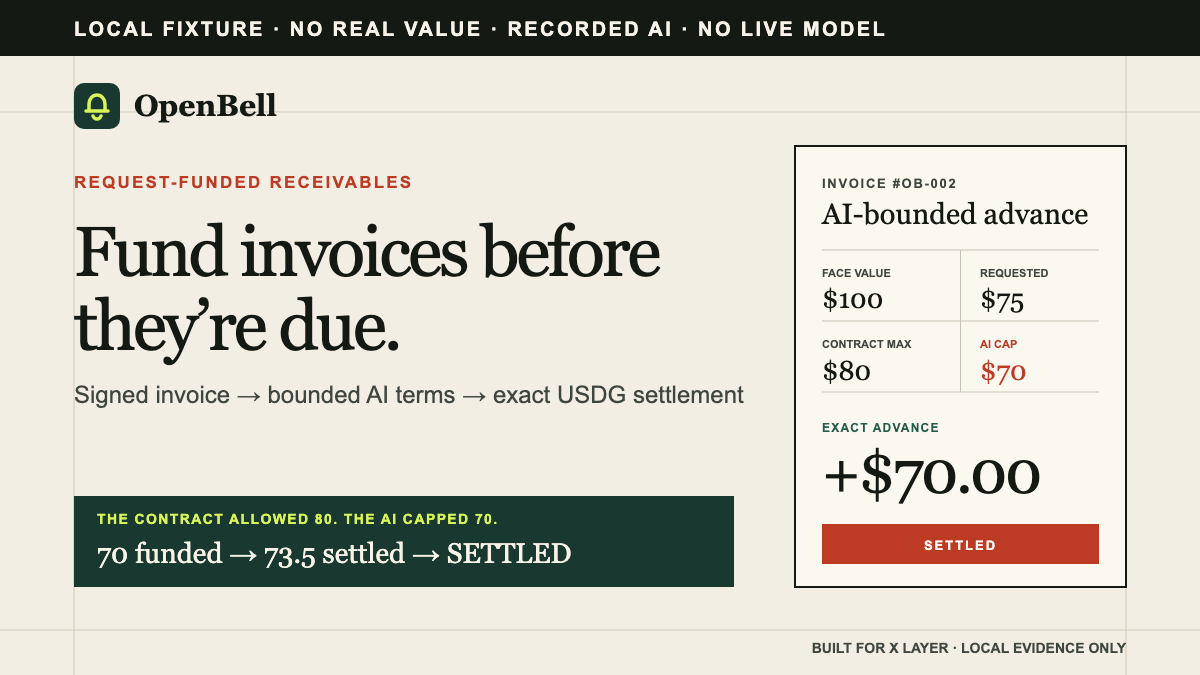
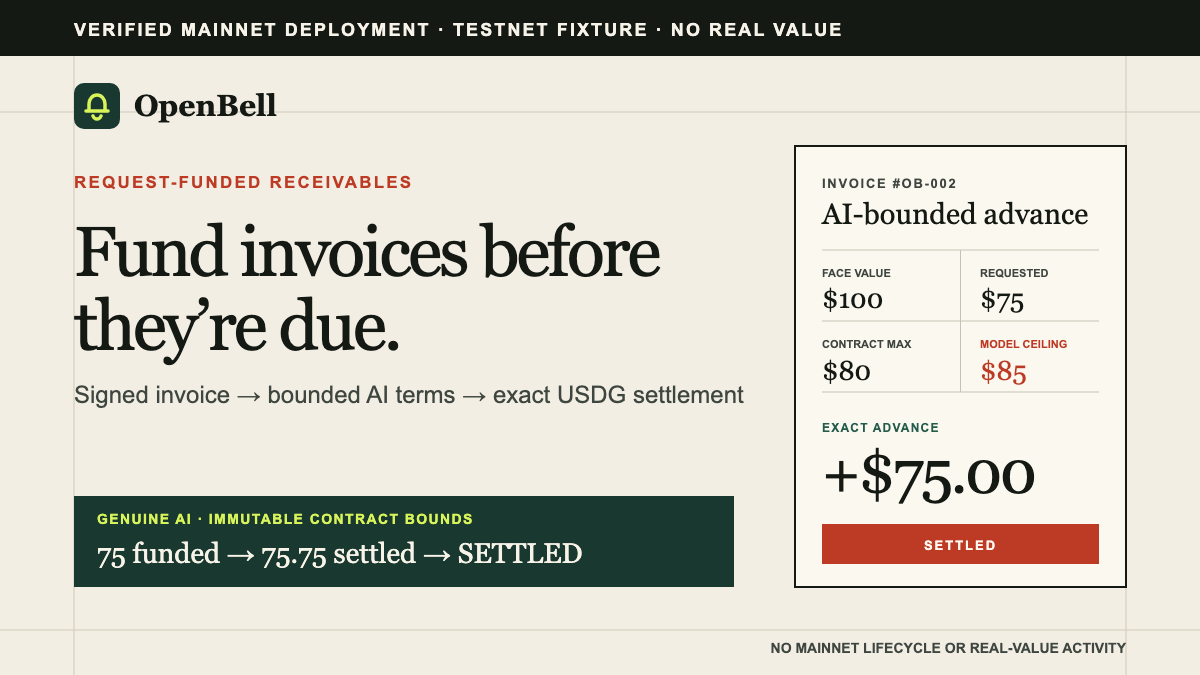
Add verified X Layer mainnet deployment proof

diff --git a/web/index.html b/web/index.html
@@ -6,7 +6,7 @@
     <title>OpenBell — Replay AI-bounded invoice funding</title>
     <meta
       name="description"
-      content="OpenBell combines a verified no-value X Layer testnet deployment, genuine bounded AI decisions, and a separate recorded local lifecycle replay."
+      content="OpenBell is deployed and verified on X Layer mainnet, with a separate no-value testnet lifecycle and genuine bounded AI evidence."
     />
     <meta name="robots" content="noindex, nofollow" />
     <meta name="theme-color" content="#f2eee4" />
@@ -14,7 +14,7 @@
     <meta property="og:title" content="OpenBell — Replay AI-bounded invoice funding" />
     <meta
       property="og:description"
-      content="Verified no-value X Layer testnet contracts, genuine bounded AI decisions, and a settled 75 → 75.75 fixture lifecycle."
+      content="Verified X Layer mainnet deployment, genuine bounded AI decisions, and a no-value testnet 75 → 75.75 lifecycle."
     />
     <meta property="og:image" content="public/openbell-og.png" />
     <meta property="og:image:width" content="1200" />
@@ -23,7 +23,7 @@
     <meta name="twitter:title" content="OpenBell — Replay AI-bounded invoice funding" />
     <meta
       name="twitter:description"
-      content="Verified no-value X Layer testnet contracts, genuine bounded AI decisions, and a settled 75 → 75.75 fixture lifecycle."
+      content="Verified X Layer mainnet deployment, genuine bounded AI decisions, and a no-value testnet 75 → 75.75 lifecycle."
     />
     <meta name="twitter:image" content="public/openbell-og.png" />
     <link rel="icon" href="public/favicon.svg" type="image/svg+xml" />
@@ -34,7 +34,7 @@
     <a class="skip-link" href="#main">Skip to the product</a>
 
     <div class="truth-ribbon" role="note" aria-label="Fixture disclosure">
-      <span>VERIFIED TESTNET</span>
+      <span>VERIFIED MAINNET DEPLOYMENT</span>
       <i aria-hidden="true"></i>
       <span>NO REAL VALUE</span>
       <i aria-hidden="true"></i>
@@ -79,8 +79,8 @@
             <a class="secondary-action" href="#proof">Inspect evidence</a>
           </div>
           <p class="hero-boundary">
-            The no-value contracts and genuine-model lifecycle are verified on X Layer testnet. This interactive
-            70 → 73.50 replay remains the older recorded local fixture, clearly separated from the network proof.
+            OpenBell is deployed and verified on X Layer mainnet, with no mainnet lifecycle or real-value activity.
+            This interactive 70 → 73.50 replay remains the older recorded local fixture.
           </p>
         </div>
 
@@ -162,6 +162,47 @@
         <span>NO PROTOCOL TOKEN</span>
         <span>EXACT REQUEST FUNDING</span>
         <span>DIRECT PAYER SETTLEMENT</span>
+      </section>
+
+      <section class="proof-section mainnet-checkpoint" aria-labelledby="mainnet-title">
+        <header class="section-heading proof-heading">
+          <div>
+            <p class="eyebrow">VERIFIED MAINNET DEPLOYMENT</p>
+            <h2 id="mainnet-title">One exact CREATE. Runtime and configuration verified.</h2>
+          </div>
+          <span class="fixture-chip">CHAIN 196 · DEPLOYMENT ONLY</span>
+        </header>
+        <div class="proof-grid">
+          <article class="proof-card proof-card-main">
+            <p class="proof-label">OPENBELL RECEIVABLES</p>
+            <code>0xc4Ef249b80a6a034198C226278c51b0a903840dd</code>
+            <p>Deployed and verified on X Layer mainnet. No mainnet lifecycle or real-value activity.</p>
+          </article>
+          <article class="proof-card">
+            <p class="proof-label">DEPLOYMENT TRANSACTION</p>
+            <a href="https://www.okx.com/web3/explorer/xlayer/tx/0x328c80d5c4e5a7a13c3143f1f3c5667f83823c3ebdfbd3ca1d9c07b7f3af413e"><code>0x328c…f413e</code></a>
+            <p>Block 67,764,503 · zero-value CREATE.</p>
+          </article>
+          <article class="proof-card">
+            <p class="proof-label">RUNTIME HASH</p>
+            <code>0x3aa05fd1a2f966e99324c8c24dc3ee67e2f4c11a4f3c8de0da25fc1f7e8a9798</code>
+            <p>13,027 bytes; source-bound artifact compatibility verified through two providers.</p>
+          </article>
+          <article class="proof-card proof-card-boundary">
+            <p class="proof-label">MAINNET BOUNDARY</p>
+            <ul>
+              <li>No invoice registered or rejected</li>
+              <li>No USDG funded or settled</li>
+              <li>No role rotation</li>
+              <li>Explorer source publication pending</li>
+            </ul>
+          </article>
+        </div>
+        <div class="mainnet-links">
+          <a class="manifest-link" href="data/openbell-xlayer-mainnet-deployment.json" download>Download public mainnet evidence <span aria-hidden="true">↓</span></a>
+          <a class="manifest-link" href="https://www.okx.com/web3/explorer/xlayer/address/0xc4Ef249b80a6a034198C226278c51b0a903840dd">Inspect contract <span aria-hidden="true">↗</span></a>
+        </div>
+        <p class="manifest-hash"><span>Verification manifest</span><code>0xac31d5ee9c4474c6233ad141a436115d439bda8599dc9680852b6ffe4371f020</code></p>
       </section>
 
       <section class="proof-section" aria-labelledby="network-title">
@@ -349,7 +390,7 @@
         <img src="public/openbell-mark.svg" width="34" height="34" alt="" />
         <span>OpenBell</span>
       </div>
-      <p>Built for X Layer · Verified no-value testnet deployment · Genuine lifecycle SETTLED</p>
+      <p>Deployed and verified on X Layer mainnet · No mainnet lifecycle or real-value activity</p>
     </footer>
   </body>
 </html>

diff --git a/web/styles.css b/web/styles.css
@@ -92,6 +92,17 @@ button {
   background: var(--acid);
 }
 
+.mainnet-checkpoint {
+  padding-top: 86px;
+}
+
+.mainnet-links {
+  display: flex;
+  flex-wrap: wrap;
+  gap: 12px;
+  margin-top: 22px;
+}
+
 .site-header,
 main > section,
 footer,
@@ -945,7 +956,8 @@ footer p {
   main > section,
   footer,
   .trust-line {
-    width: min(100% - 30px, 1180px);
+    width: calc(100% - 30px);
+    max-width: 1180px;
   }
 
   .site-header nav a {
@@ -1046,13 +1058,33 @@ footer p {
   }
 
   .truth-ribbon {
-    display: grid;
-    grid-template-columns: 1fr 1fr;
-    gap: 5px 18px;
-    min-height: 48px;
+    display: block;
+    min-height: 0;
     padding: 8px 16px;
-    font-size: 10px;
+    font-size: 9px;
     letter-spacing: 0.1em;
+    white-space: nowrap;
+  }
+
+  .truth-ribbon span {
+    display: inline;
+  }
+
+  .truth-ribbon span::after {
+    content: " · ";
+    color: var(--acid);
+  }
+
+  .truth-ribbon span:last-child::after {
+    content: "";
+  }
+
+  .truth-ribbon span:nth-of-type(n + 3) {
+    display: none;
+  }
+
+  .truth-ribbon span:nth-of-type(2)::after {
+    content: "";
   }
 
   .truth-ribbon i {
@@ -1068,8 +1100,7 @@ footer p {
   }
 
   .network-pill {
-    padding: 6px 8px;
-    font-size: 9px;
+    display: none;
   }
 
   .hero {
@@ -1100,8 +1131,9 @@ footer p {
   }
 
   .hero-equation {
+    display: grid;
+    grid-template-columns: 1fr;
     width: 100%;
-    justify-content: space-between;
     gap: 7px;
     margin-top: 22px;
     padding-inline: 8px;
@@ -1115,8 +1147,12 @@ footer p {
     text-align: center;
   }
 
+  .hero-equation {
+    overflow: hidden;
+  }
+
   .hero-equation > i {
-    flex: 0 0 auto;
+    transform: rotate(90deg);
   }
 
   .hero-equation b {

diff --git a/README.md b/README.md
@@ -15,9 +15,21 @@ signed invoice -> bounded AI decision -> exact USDG advance -> payer settlement
 
 ## Current status
 
-OpenBell is in pre-alpha development for BuildX AI Season. Its labelled no-value fixture stack is
-deployed and source/runtime verified on X Layer Testnet. Its first complete testnet fixture
-lifecycle is also verified; every mainnet action remains unexecuted.
+OpenBell is in pre-alpha development for BuildX AI Season. The contract is deployed and verified
+on X Layer mainnet, while the complete economic journey remains a labelled no-value testnet
+fixture. No mainnet lifecycle or real-value activity has occurred.
+
+- Mainnet OpenBell Receivables: [`0xc4Ef249b80a6a034198C226278c51b0a903840dd`](https://www.okx.com/web3/explorer/xlayer/address/0xc4Ef249b80a6a034198C226278c51b0a903840dd)
[1 lines of base64/hex data omitted]
+- Mainnet deployment block: `67764503`
[1 lines of base64/hex data omitted]
+- Public deployment evidence: [`evidence/openbell-xlayer-mainnet-deployment.json`](evidence/openbell-xlayer-mainnet-deployment.json)
+
+The zero-value CREATE passed two-provider transaction, receipt, canonical-block, runtime, immutable,
+getter, role, policy, typehash and EIP-712-domain checks after more than 12 confirmations. Explorer
+source publication and an independent third-party audit remain separate, incomplete claims.
+
+The no-value testnet proof remains the only executed lifecycle:
 
 - Fixture tUSDG: [`0x7E7a189a8CE288E9581Ba3CDf14ac3D4a1624703`](https://www.okx.com/web3/explorer/xlayer-test/address/0x7E7a189a8CE288E9581Ba3CDf14ac3D4a1624703)
 - OpenBell Receivables: [`0x7eb9C2418ec935d43E6761e462eAA5388BD6ca18`](https://www.okx.com/web3/explorer/xlayer-test/address/0x7eb9C2418ec935d43E6761e462eAA5388BD6ca18)
@@ -39,7 +51,9 @@ obtainable without implying canonical-asset availability. A second optional scri
 canonical X Layer test USDG at `0xF0863D7A29a55d0c4263c11bFac754312ff078DF`; the current fork test
 uses local state allocation and proves contract compatibility, not that an operator wallet can
 obtain that token. The mainnet script is separately configured for canonical USDG at
-`0x4ae46a509F6b1D9056937BA4500cb143933D2dc8`. No mainnet deployment has occurred.
+`0x4ae46a509F6b1D9056937BA4500cb143933D2dc8`, which is also the settlement-token binding of the
+verified mainnet deployment. No mainnet invoice was registered, funded, settled, rejected, or moved
+for value.
 
 ## Why the AI is bounded
 

diff --git a/AGENTS.md b/AGENTS.md
@@ -1,0 +1,9 @@
+# Repository review rules
+
+- Keep every network, asset-value, model, and verification claim traceable to committed public evidence.
+- Preserve the explicit boundary: the testnet lifecycle is a no-value fixture; mainnet has deployment evidence only, with no lifecycle or real-value activity.
+- Never commit credentials, private keys, raw signatures, signed transactions, wallet recovery material, RPC secrets, or private operator/submission notes.
+- Treat wallet actions, signing, broadcasts, spending, role rotation, explorer publication, Git pushes, website publication, and form submission as separately approved actions.
+- Run `npm run check` before proposing a merge. Evidence exporters and parity tests must fail closed on economic, disclosure, address, or hash drift.
+- Keep the local recorded-model replay distinct from the genuine Bankr-mediated model evidence and the verified network evidence.
+- Do not add demo narration, recording scripts, judge walkthroughs, private submission checklists, or form drafts to this repository.
